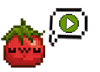
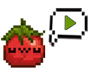
A lot of improvements: UI, improved site block, Pomodoro habit task.
Many fixes an improvement to site blocking and site block overlay of Pomodoro. added a lot of images and improved User interface, new colors and Pomodoro character. A Pomodoro habit is created automatically in Habitica, with an option in the settings to automatically score [+] or [-] of the habit when Pomodoro is done successfully or fails accordingly.

Changed region(s): [[0.57, 0.1667, 0.81, 0.4722]]

diff --git a/SitePass/app/popup.html b/SitePass/app/popup.html
@@ -1,7 +1,7 @@
 <!doctype html>
 <html>
 <head>
-    <title>Habitica SitePass</title>
+    <title>Habitica SiteKeeper</title>
     <script src="jquery-2.1.3.min.js"></script>
     <link rel="stylesheet" type="text/css" href="popup.css">
     <script src="popup.js"></script>
@@ -42,20 +42,26 @@
 
             <label><b>Break Duration (In Minutes)</b><br/><input id="BreakDuration" type="text"></label><br>
             <label><b>Break Extention (In Minutes)</b><br/><input id="BreakExtention" type="text"></label><br>
-            <input type="checkbox" id="BreakExtentionEnabled">Fail Pomodoro after Break Extention<br>
             <input type="checkbox" id="BreakFreePass">During break all sites are free<br>
+            <input type="checkbox" id="BreakExtentionEnabled">Fail Pomodoro after Break Extention<br>
             <hr>
-            <label><b>Pomodoro Combo set Habit Id</b><br/><input id="PomoSetHabitId" type="text"></label><br>
-            <label><b>Pomodoros in Set  </b><input style="width:50px;margin-top: 5px;" id="PomoSetNum" type="number"></label><br>
+
+            <label><b>Pomodoro Combo Set Habit </b></label><br>
             <label><input type="checkbox" id="PomoSetHabitPlus"> <span class="plus_minus_icon">+</span> habit for pomodoro set complete</label><br>
+            <label><b>Pomodoros in Set  </b><input style="width:50px;margin-top: 5px;" id="PomoSetNum" type="number"></label><br>
+            <span class="setting-note">Choose 0 for infinite loop<br>(Break Extentions won't fail you)</span>
             <hr>
             
             <button id="SaveButton" type="submit">Save/Update</button>
             <br><br>
+            <a href="https://habitica.fandom.com/wiki/Habitica_SitePass" target="_blank" style="color:#878190;">Help & Credits</a>
+            <br>
         </div>
         <hr>
+        <a href="https://habitica.com" target="_blank"><div class="footer_icons"><span class="habitica_icon"></span></div></a>
         <div class="footer_icons" style="color: goldenrod;" id="Dosh"><span class="gold_icon"></span></div>
         <div class="footer_icons" style="color: red;" id="MyHp"><span class="hp_icon"></span></div>
+        
     </div>
 </body>
 </html>

diff --git a/SitePass/app/popup.css b/SitePass/app/popup.css
@@ -72,6 +72,18 @@ a{
     display: inline-block;
     background-position: 0;
 }
+.habitica_icon {
+    background-image: url(img/habitica.png);
+    background-repeat: no-repeat;
+    width: 25px;
+    height: 25px;
+    margin-right: 2px;
+    margin-left: 6px;
+    vertical-align: top;
+    display: inline-block;
+    background-position: 0;
+    margin-top: -1px;
+}
 .gp {
     width: auto;
     height: 100%;
@@ -122,7 +134,7 @@ a{
     color: white;
     font-weight: bold;
     line-height: 59px;
-    background-color: #540000ad;
+    background-color: #54000057;
     display: block;
     width: 95%;
     height: 57px;
@@ -149,7 +161,6 @@ a{
     top: 17px;
     font-weight: bold;
     position: relative;
-    color: #36205D;
 }
 #Footer {
     display : table-row;

diff --git a/SitePass/app/popup.js b/SitePass/app/popup.js
@@ -239,11 +239,13 @@ function updateTimerDisplay(){
             $('.tomato').toggleClass("tomatoWait", false); 
             $('.tomato').toggleClass("tomatoProgress", true);
             $('#pomodoro').css("background-color", "green");
+            $('#pomodoro').css("color", "lightgreen");
             $("#SiteTable tbody").toggleClass('blocked',true);
         }else{
             $('.tomato').toggleClass("tomatoWait", true); 
             $('.tomato').toggleClass("tomatoProgress", false);
-            $('#pomodoro').css("background-color", "#2995CD");
+            $('#pomodoro').css("background-color", "#2995CD")
+            $('#pomodoro').css("color", "#36205D");
             $("#SiteTable tbody").toggleClass('blocked',false);
         }
 }
